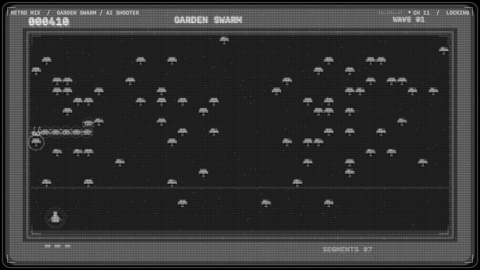
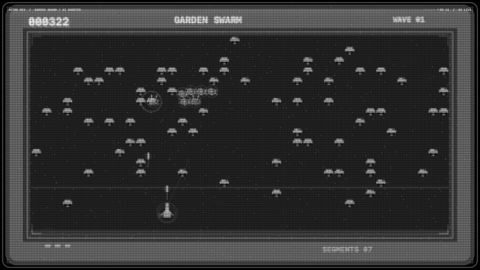
Update screenshots for 1.9.6

diff --git a/RELEASE_NOTES.md b/RELEASE_NOTES.md
@@ -1,6 +1,7 @@
-# Retro Mix Arcade 1.9.5
+# Retro Mix Arcade 1.9.6
 
-- Added an occasional Karate Duel bonus celebration after a clean spinning kick.
-- The referee moves into the foreground, jumps, and returns as the match continues.
-- Refined pixel-art creatures in Garden Swarm and River Crossing.
-- Added animated pixel characters and vehicles in Horizon Defense and Barrel Climb.
+- Redesigned Garden Swarm creatures with shaded, animated pixel-art cels.
+- Added detailed frog, turtle and crocodile artwork to River Crossing.
+- Refined Horizon Defense spacecraft and animated invaders.
+- Redesigned Barrel Climb characters with multi-tone sprites and improved running, jumping and climbing poses.
+- Retains the shared monochrome CRT treatment and existing effects.

diff --git a/README.md b/README.md
@@ -24,7 +24,7 @@ The image shows an already unlocked JMR license.
 
 ## Download and install
 
-Download the ZIP from [version 1.9.5](https://github.com/mikaelmoran/retro-mix-arcade-downloads/releases/tag/v1.9.5), expand it, and move
+Download the ZIP from [version 1.9.6](https://github.com/mikaelmoran/retro-mix-arcade-downloads/releases/tag/v1.9.6), expand it, and move
 **Retro Mix Arcade.app** to Applications. Open the app, choose a game, and
 click **Save selection**. In **System Settings → Wallpaper → Screen Saver**,
 choose **Retro Mix Arcade**.
